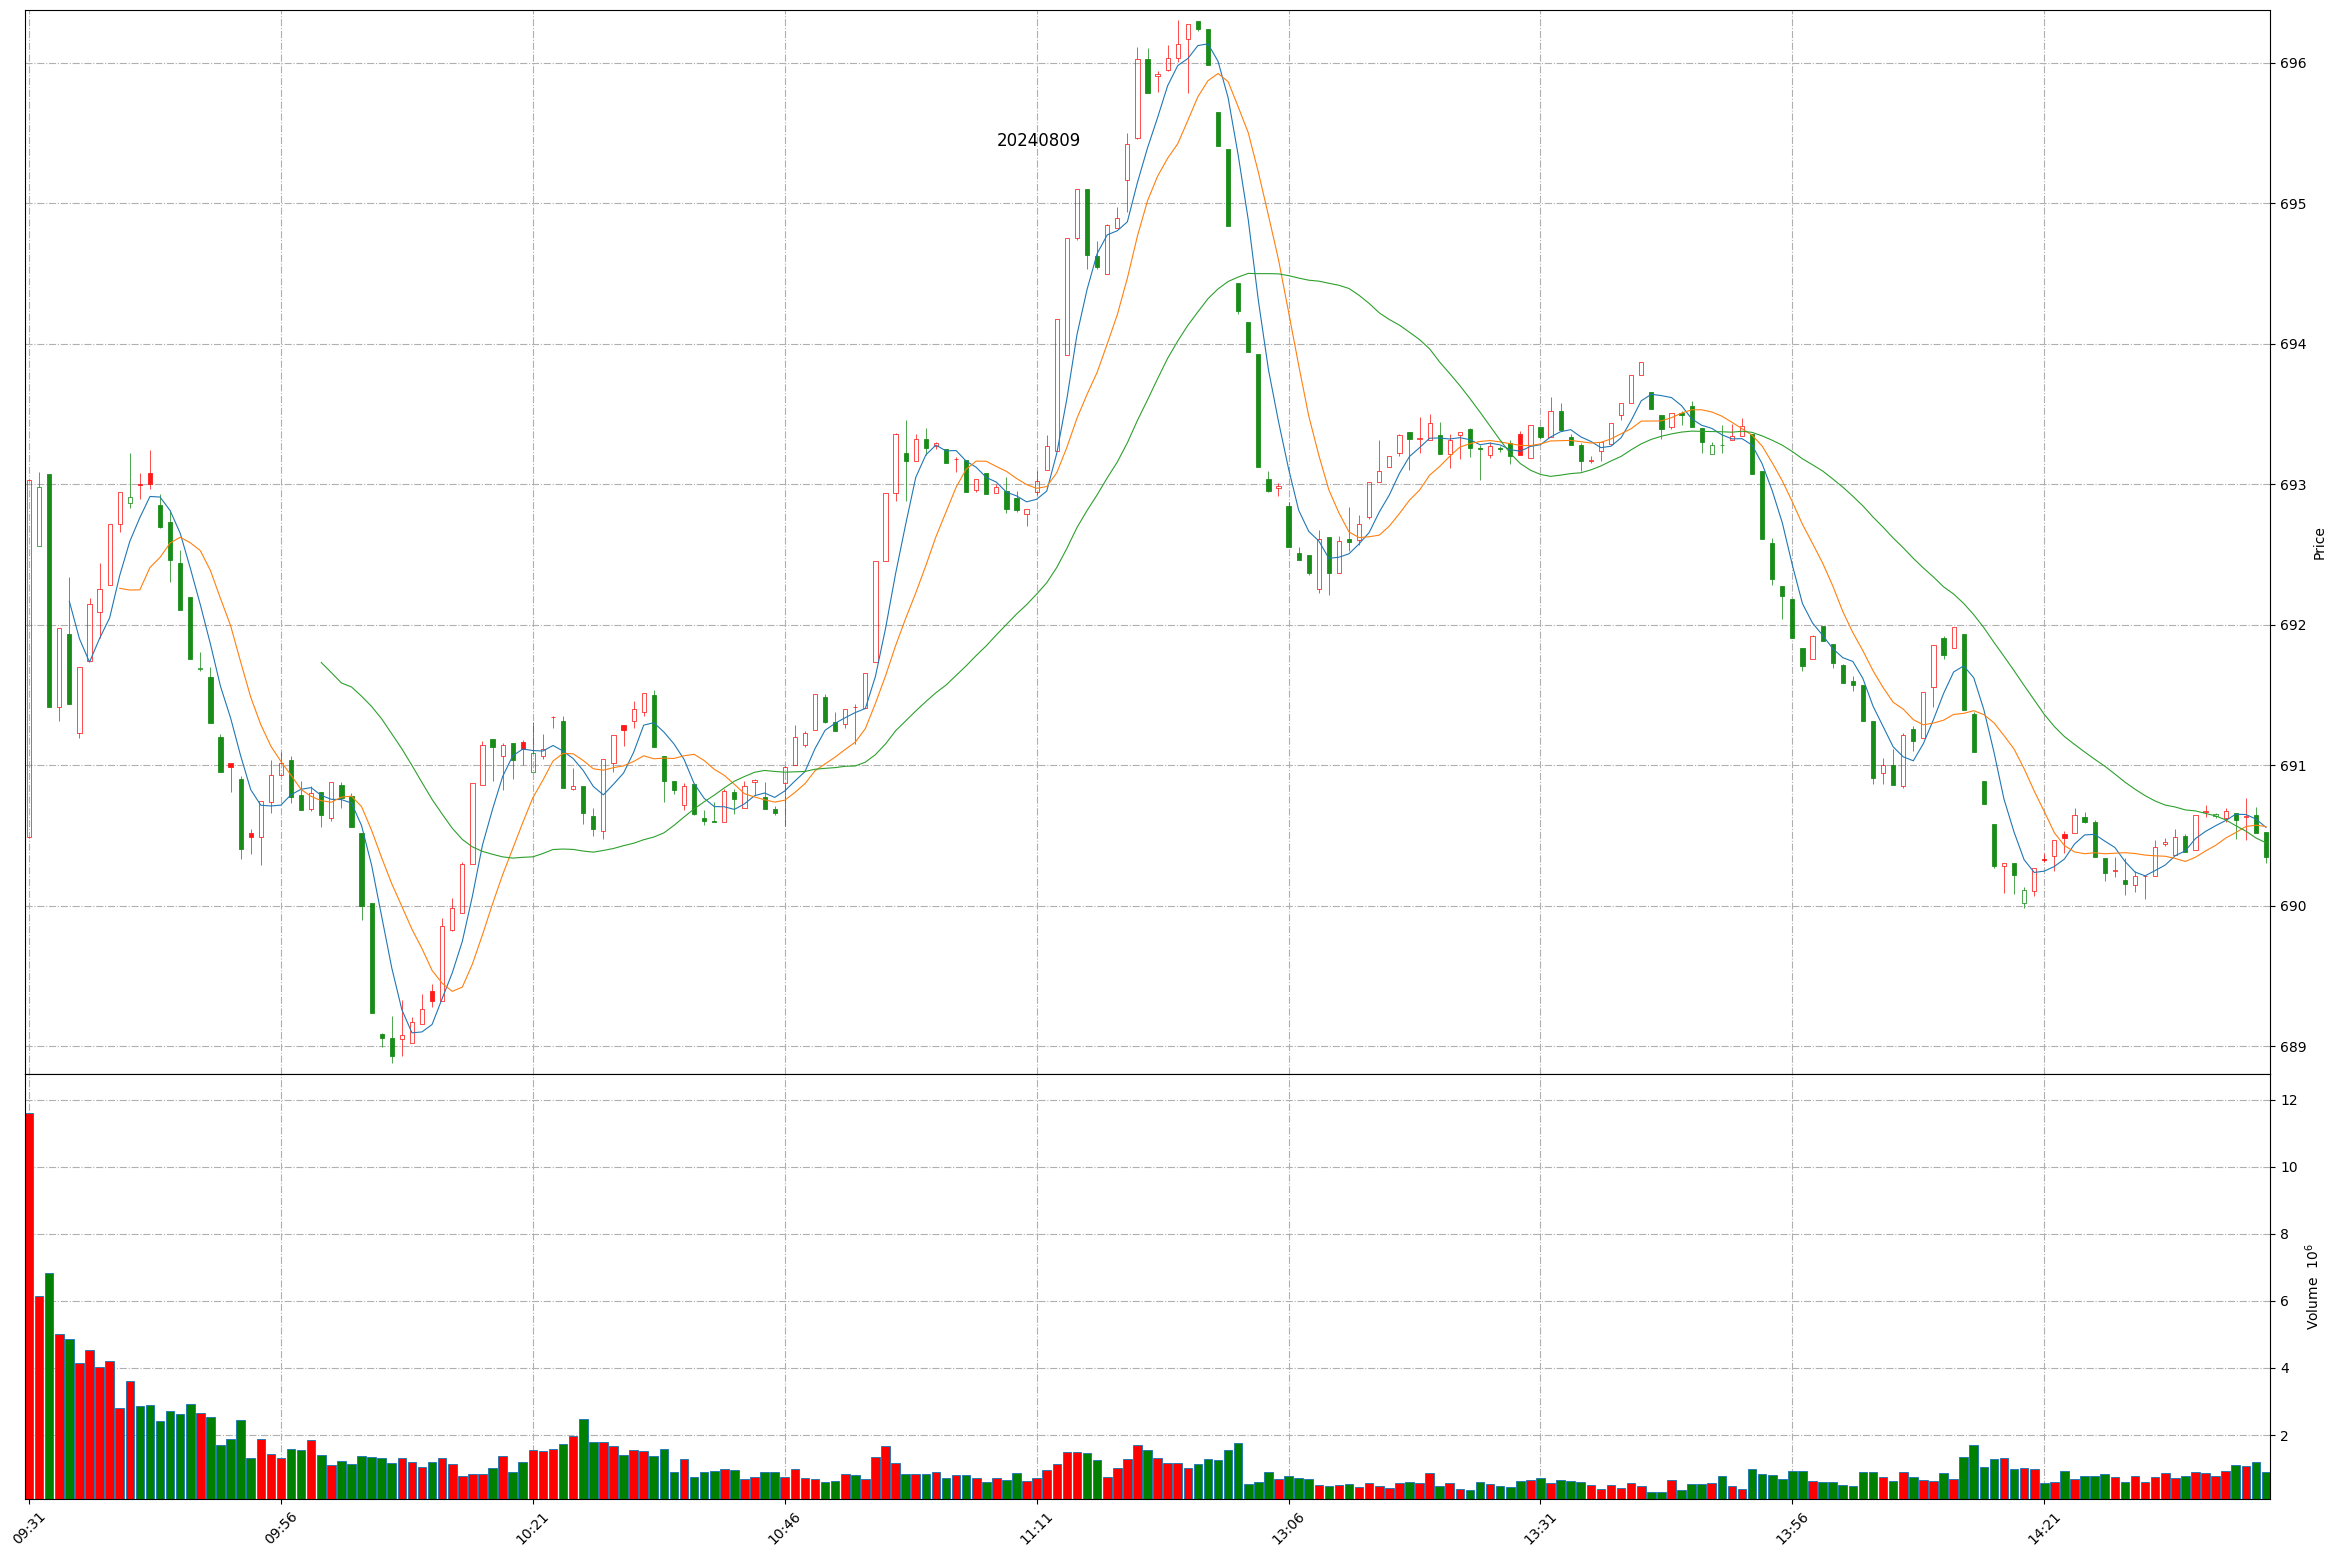
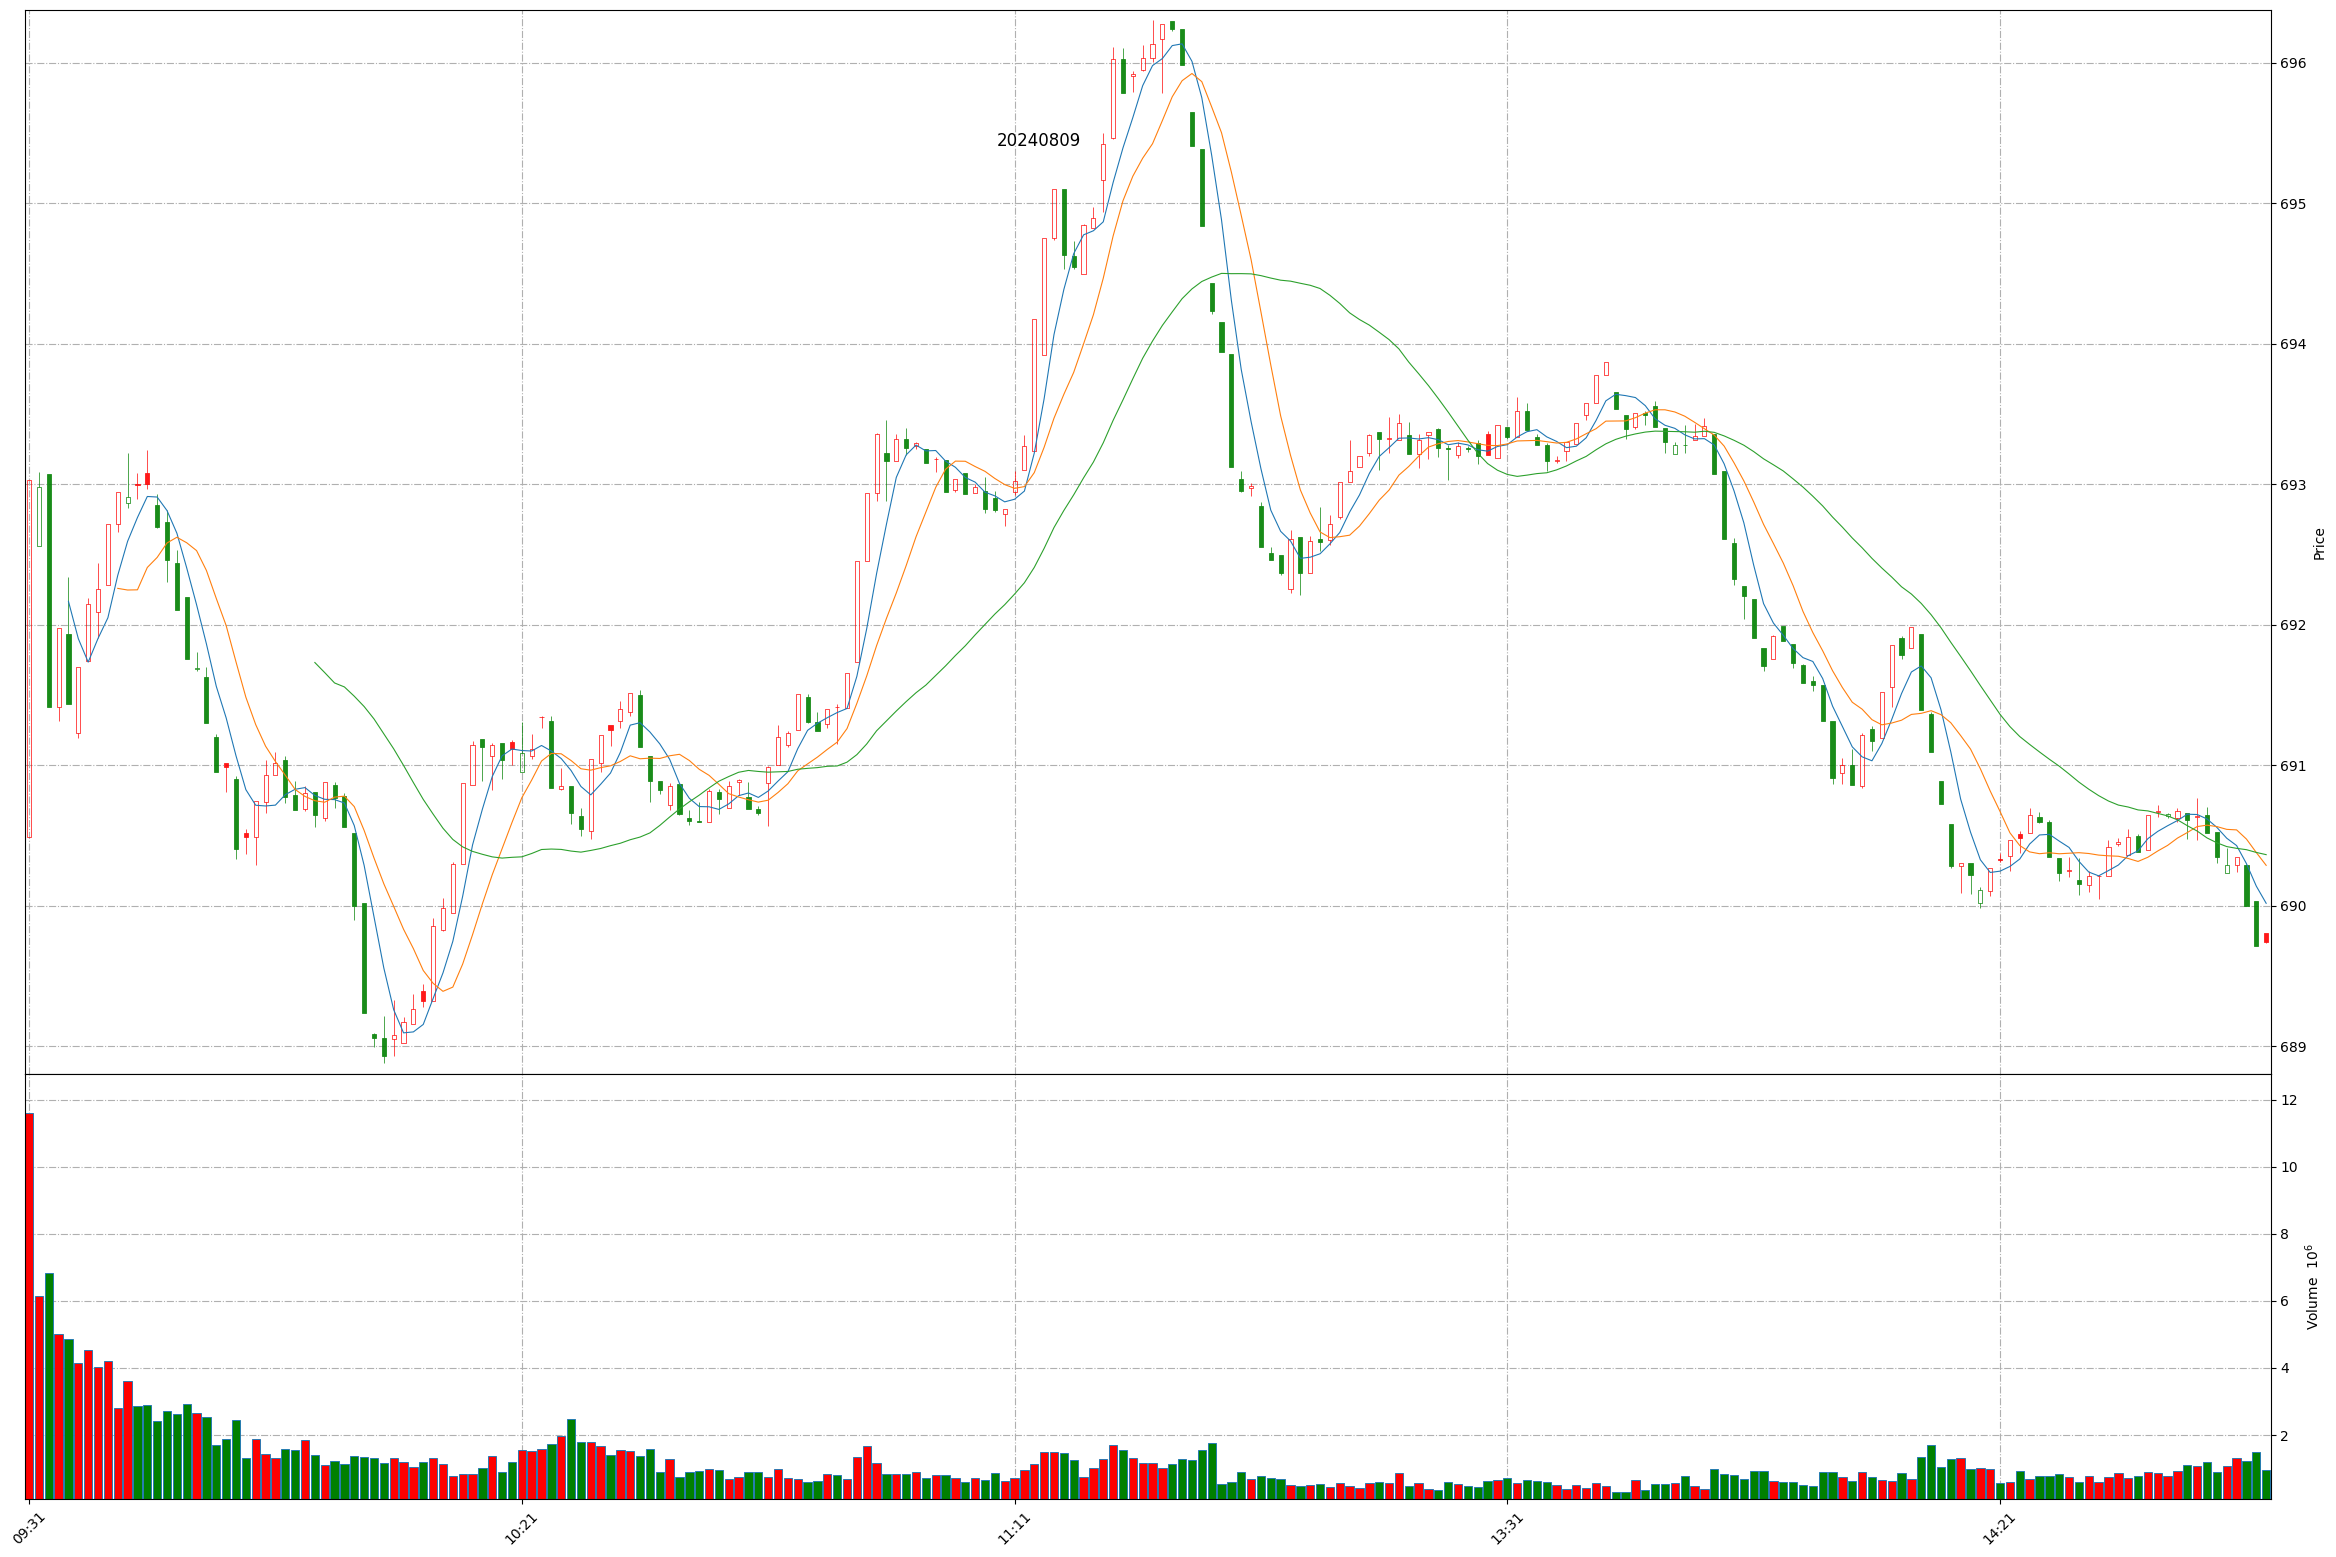
Github action update at 2024-08-09 14:47:48.

diff --git a/README.md b/README.md
@@ -1,11 +1,11 @@
 
 # Daily-A-share-market-quotes 每日 A 股指数（5min 更新）- 20240809
 
-### 上证指数 20240809 14:43
+### 上证指数 20240809 14:47
 ![](./fig/2024/8/20240809-sh000001.png)
 
-### 深证成指 20240809 14:43
+### 深证成指 20240809 14:47
 ![](./fig/2024/8/20240809-sz399001.png)
 
-### 北证50 20240809 14:43
+### 北证50 20240809 14:47
 ![](./fig/2024/8/20240809-bj899050.png)
